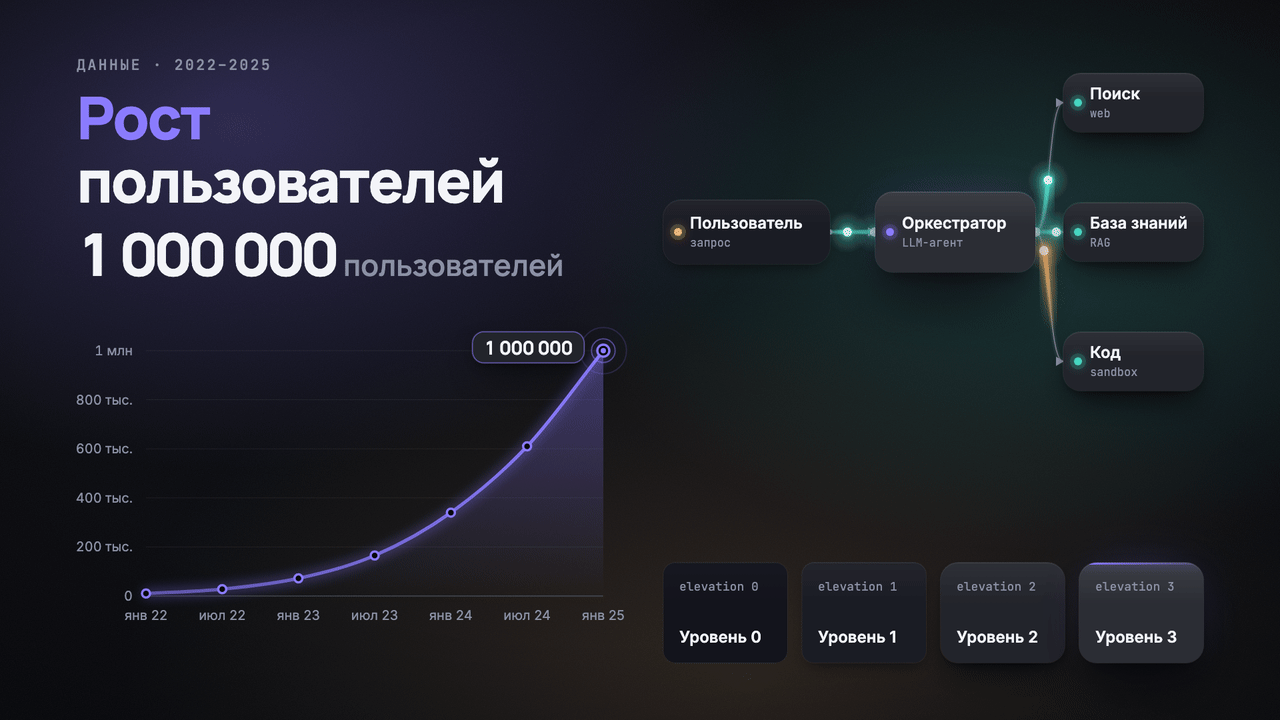
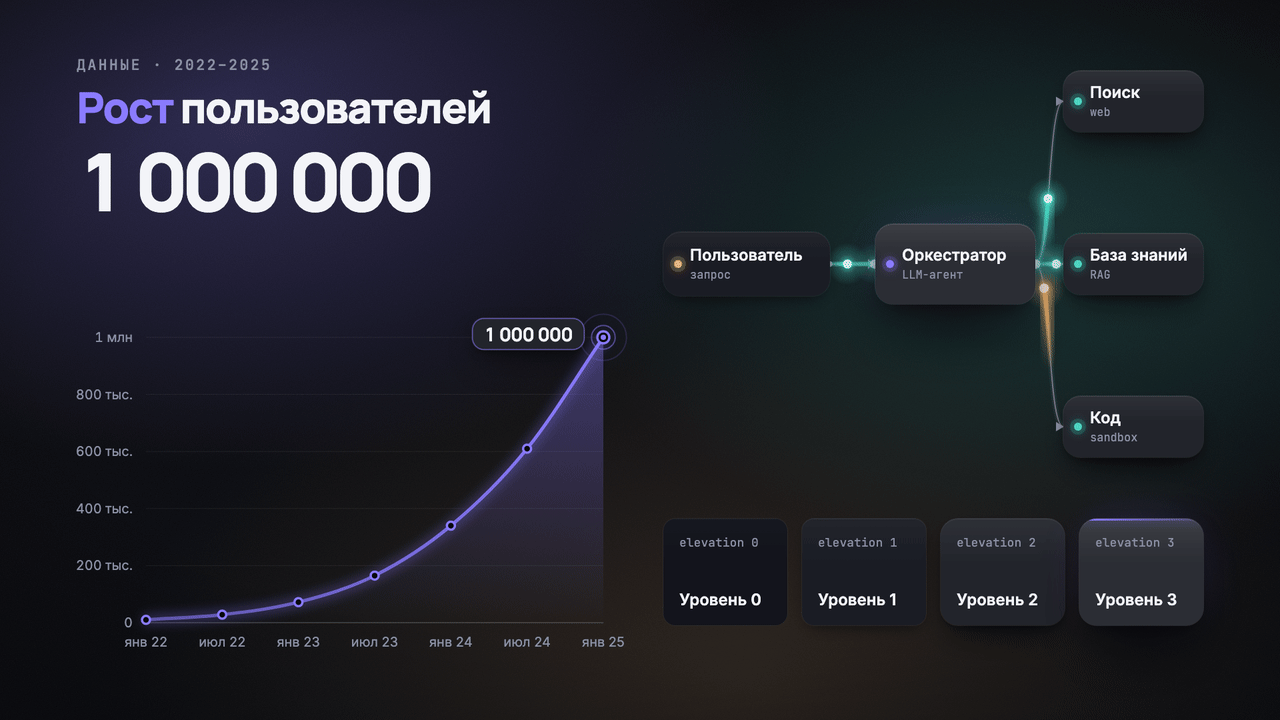
fix(motion-studio): motion-kit — вырожденные биты, иерархия, тени
Вырожденные биты (start = end, end < start) — ступенька через ramp(), без
исключения interpolate; фикстура kit-degenerate и e2e на неё. Галерея и
API.md: число 120 px главнее заголовка 64 px, без повтора слова в
суффиксе; правило иерархии кеглей. API.md: загруженные веса шрифтов,
cardEnterStyle, useFlowGeometry, edgePath. light-clean: уровни 0 и 1
различимы. Комментарий о глобальном extensionAlias. Раскладка галереи:
нулевая линия графика по низу карточек. План: путь шрифтов (R11).

diff --git a/app/motion-studio/render/test/fixtures/kit-gallery/src/Scene.tsx b/app/motion-studio/render/test/fixtures/kit-gallery/src/Scene.tsx
@@ -30,12 +30,17 @@ const POINTS = [
 ];
 
 const NODES: FlowNode[] = [
-  { id: "user", label: "Пользователь", caption: "запрос", x: 0, y: 214, w: 250, h: 96, elevation: 1, accentIndex: 2 },
-  { id: "orch", label: "Оркестратор", caption: "LLM-агент", x: 318, y: 202, w: 240, h: 120, elevation: 3, accentIndex: 0 },
-  { id: "search", label: "Поиск", caption: "web", x: 600, y: 24, w: 210, h: 88, elevation: 2, accentIndex: 1 },
-  { id: "kb", label: "База знаний", caption: "RAG", x: 600, y: 218, w: 210, h: 88, elevation: 2, accentIndex: 1 },
-  { id: "code", label: "Код", caption: "sandbox", x: 600, y: 412, w: 210, h: 88, elevation: 2, accentIndex: 1 },
+  { id: "user", label: "Пользователь", caption: "запрос", x: 0, y: 262, w: 250, h: 96, elevation: 1, accentIndex: 2 },
+  { id: "orch", label: "Оркестратор", caption: "LLM-агент", x: 318, y: 250, w: 240, h: 120, elevation: 3, accentIndex: 0 },
+  { id: "search", label: "Поиск", caption: "web", x: 600, y: 20, w: 210, h: 92, elevation: 2, accentIndex: 1 },
+  { id: "kb", label: "База знаний", caption: "RAG", x: 600, y: 264, w: 210, h: 92, elevation: 2, accentIndex: 1 },
+  { id: "code", label: "Код", caption: "sandbox", x: 600, y: 508, w: 210, h: 92, elevation: 2, accentIndex: 1 },
 ];
+
+// подписи оси X у LineChart лежат под базовой линией (нижнее поле 56 px): ряд карточек
+// поднимаем на столько же, чтобы его низ совпал с нулевой линией графика
+const CHART_PAD_BOTTOM = 56;
+
 const EDGES: FlowEdge[] = [
   { id: "e-user", from: "user", to: "orch" },
   { id: "e-search", from: "orch", to: "search" },
@@ -53,7 +58,7 @@ function Gallery() {
       <SafeArea>
         <div style={{ display: "flex", justifyContent: "space-between", height: "100%" }}>
           {/* левая колонка: заголовок, счётчик, график */}
-          <div style={{ width: 830, display: "flex", flexDirection: "column", gap: 18 }}>
+          <div style={{ width: 830, display: "flex", flexDirection: "column", gap: 16 }}>
             <KineticText
               text="Данные · 2022–2025"
               beat={{ start_frame: 0, end_frame: 30 }}
@@ -64,16 +69,17 @@ function Gallery() {
               caps
               color={s.palette.muted}
             />
-            <KineticText text="Рост пользователей" beat={{ start_frame: 4, end_frame: 50 }} mode="words" enter="rise" size={6} highlight={["Рост"]} />
-            <AnimatedNumber from={10_000} to={1_000_000} beat={{ start_frame: 12, end_frame: 100 }} locale="ru" suffix="пользователей" size={6} />
-            <div style={{ marginTop: 8 }}>
-              <LineChart points={POINTS} beat={{ start_frame: 20, end_frame: 110 }} width={830} height={500} locale="ru" />
+            {/* иерархия: число — главный акцент (7 = 120 px), заголовок — второй уровень (5 = 64 px) */}
+            <KineticText text="Рост пользователей" beat={{ start_frame: 4, end_frame: 50 }} mode="words" enter="rise" size={5} highlight={["Рост"]} />
+            <AnimatedNumber from={10_000} to={1_000_000} beat={{ start_frame: 12, end_frame: 100 }} locale="ru" size={7} />
+            <div style={{ marginTop: "auto" }}>
+              <LineChart points={POINTS} beat={{ start_frame: 20, end_frame: 110 }} width={830} height={560} locale="ru" />
             </div>
           </div>
 
           {/* правая колонка: схема с импульсами и карточки по высоте */}
-          <div style={{ width: 810, display: "flex", flexDirection: "column", justifyContent: "space-between" }}>
-            <FlowGraph nodes={NODES} edges={EDGES} beat={{ start_frame: 18, end_frame: 90 }} width={810} height={524}>
+          <div style={{ width: 810, display: "flex", flexDirection: "column", justifyContent: "space-between", paddingBottom: CHART_PAD_BOTTOM, boxSizing: "border-box" }}>
+            <FlowGraph nodes={NODES} edges={EDGES} beat={{ start_frame: 18, end_frame: 90 }} width={810} height={600}>
               <PulseAlongPath edgeId="e-user" beat={{ start_frame: 60, end_frame: 150 }} count={2} />
               <PulseAlongPath edgeId="e-search" beat={{ start_frame: 70, end_frame: 150 }} />
               <PulseAlongPath edgeId="e-kb" beat={{ start_frame: 74, end_frame: 150 }} count={2} />
@@ -81,7 +87,7 @@ function Gallery() {
             </FlowGraph>
             <div style={{ display: "flex", gap: 22 }}>
               {([0, 1, 2, 3] as Elevation[]).map((e) => (
-                <Card key={e} elevation={e} beat={{ start_frame: 34, end_frame: 90 }} delay={e * 5} enter={CARD_ENTERS[e]} accentIndex={e === 3 ? 0 : undefined} width={186} height={150}>
+                <Card key={e} elevation={e} beat={{ start_frame: 34, end_frame: 90 }} delay={e * 5} enter={CARD_ENTERS[e]} accentIndex={e === 3 ? 0 : undefined} width={186} height={160}>
                   <div style={{ display: "flex", flexDirection: "column", justifyContent: "space-between", height: "100%" }}>
                     <div style={{ fontFamily: '"JetBrains Mono", monospace', fontSize: 18, color: s.palette.muted }}>elevation {e}</div>
                     <div style={{ fontFamily: '"Inter", sans-serif', fontWeight: 600, fontSize: 24, whiteSpace: "nowrap" }}>Уровень {e}</div>

diff --git a/app/motion-studio/render/test/fixtures/kit-degenerate/src/Scene.tsx b/app/motion-studio/render/test/fixtures/kit-degenerate/src/Scene.tsx
@@ -1,0 +1,45 @@
+// Вырожденные биты: нулевой длины (start = end) и обратный (end < start). Каждый
+// компонент kit должен показать их ступенькой и не бросить исключение.
+import { AnimatedNumber, Background, Card, FlowGraph, KineticText, LineChart, PulseAlongPath, SafeArea, StyleProvider } from "@ms/motion-kit";
+import { AbsoluteFill } from "remotion";
+
+const ZERO = { start_frame: 10, end_frame: 10 };
+const BACK = { start_frame: 12, end_frame: 4 };
+
+export const Scene = () => (
+  <StyleProvider style="light-clean">
+    <AbsoluteFill>
+      <Background beat={ZERO} />
+      <SafeArea>
+        <div style={{ display: "flex", gap: 40 }}>
+          <div style={{ display: "flex", flexDirection: "column", gap: 12, width: 560 }}>
+            <KineticText text="Нулевой бит" beat={ZERO} mode="letters" enter="rise" size={4} exit />
+            <KineticText text="Обратный бит" beat={BACK} mode="words" enter="fade" size={3} />
+            <AnimatedNumber from={0} to={1500} beat={ZERO} locale="ru" size={5} />
+            <AnimatedNumber from={0} to={42} beat={BACK} locale="en" suffix="%" size={3} />
+            <LineChart points={[{ label: "a", value: 1 }, { label: "b", value: 3 }]} beat={ZERO} width={520} height={260} />
+          </div>
+          <div style={{ display: "flex", flexDirection: "column", gap: 20 }}>
+            <FlowGraph
+              nodes={[
+                { id: "a", label: "Узел A", x: 0, y: 0, w: 200, h: 80 },
+                { id: "b", label: "Узел B", x: 300, y: 120, w: 200, h: 80 },
+              ]}
+              edges={[{ id: "ab", from: "a", to: "b" }]}
+              beat={ZERO}
+            >
+              <PulseAlongPath edgeId="ab" beat={ZERO} />
+              <PulseAlongPath edgeId="ab" beat={BACK} reverse />
+            </FlowGraph>
+            <Card elevation={2} beat={ZERO} accentIndex={0} width={300}>
+              Карточка
+            </Card>
+            <Card elevation={1} beat={BACK} width={300}>
+              Обратный бит
+            </Card>
+          </div>
+        </div>
+      </SafeArea>
+    </AbsoluteFill>
+  </StyleProvider>
+);

diff --git a/app/motion-studio/render/src/motion-kit/components/AnimatedNumber.tsx b/app/motion-studio/render/src/motion-kit/components/AnimatedNumber.tsx
@@ -6,7 +6,7 @@ import type { CSSProperties } from "react";
 import { interpolate, useCurrentFrame, useVideoConfig } from "remotion";
 import { EASE, frames, springAt } from "../easing.js";
 import { formatNumber } from "../format.js";
-import { CLAMP, clamp01 } from "../internal.js";
+import { CLAMP, clamp01, ramp } from "../internal.js";
 import { useStyle } from "../style.js";
 import { accent, alpha, fontFamily, tracking, typeSize } from "../tokens.js";
 
@@ -43,9 +43,10 @@ export function AnimatedNumber({ from, to, beat, locale, prefix, suffix, compact
   const ease = EASE.count;
 
   // счёт идёт до конца бита; вход занимает его начало и идёт параллельно
-  const countStart = b0 + Math.min(6, (b1 - b0) * 0.1);
-  const p = interpolate(frame, [countStart, b1], [0, 1], { ...CLAMP, easing: ease });
-  const pPrev = interpolate(frame - 1, [countStart, b1], [0, 1], { ...CLAMP, easing: ease });
+  const countStart = b0 + Math.max(0, Math.min(6, (b1 - b0) * 0.1));
+  // ramp: бит нулевой длины — ступенька, а не исключение interpolate
+  const p = ramp(frame, countStart, b1, ease);
+  const pPrev = ramp(frame - 1, countStart, b1, ease);
   const value = from + (to - from) * p;
   const fmt = { locale, compact, decimals };
   const text = formatNumber(value, fmt);

diff --git a/app/motion-studio/render/src/motion-kit/components/Background.tsx b/app/motion-studio/render/src/motion-kit/components/Background.tsx
@@ -1,8 +1,8 @@
 // Фон сцены: базовый цвет палитры + атмосфера по пресету (световые пятна, неоновая
 // сетка, бумага с точечной сеткой), виньетка и плёночное зерно. Всё движение — от кадра.
 import type { Beat } from "@ms/contracts";
-import { AbsoluteFill, Easing, interpolate, random, useCurrentFrame, useVideoConfig } from "remotion";
-import { CLAMP, useSvgId } from "../internal.js";
+import { AbsoluteFill, Easing, random, useCurrentFrame, useVideoConfig } from "remotion";
+import { ramp, useSvgId } from "../internal.js";
 import { useStyle } from "../style.js";
 import { accent, alpha, isDark, mix } from "../tokens.js";
 
@@ -33,7 +33,7 @@ export function Background({ beat, variant, grain = true, seed = "bg" }: Backgro
   const v = variant ?? DEFAULT_VARIANT[s.id] ?? (dark ? "aurora" : "paper");
   const t = frame / fps;
   const reveal = beat
-    ? interpolate(frame, [beat.start_frame, beat.end_frame], [0, 1], { ...CLAMP, easing: Easing.bezier(0.25, 1, 0.5, 1) })
+    ? ramp(frame, beat.start_frame, beat.end_frame, Easing.bezier(0.25, 1, 0.5, 1))
     : 1;
   const noiseId = useSvgId("ms-grain");
 

diff --git a/app/motion-studio/render/src/node/worker.ts b/app/motion-studio/render/src/node/worker.ts
@@ -83,7 +83,11 @@ async function ensureBundle(job: WorkerJob): Promise<string> {
         // node_modules пакетов Remotion), затем node_modules workspaces
         modules: ["node_modules", job.nodeModules],
         // motion-kit пишет импорты с `.js` (NodeNext, как остальной пакет render):
-        // webpack сначала ищет одноимённый .ts/.tsx
+        // webpack сначала ищет одноимённый .ts/.tsx. Правило глобальное — действует на
+        // все импорты бандла (код сцены, node_modules), не только на kit. Это безопасно:
+        // для `x.js` без соседнего `x.ts`/`x.tsx` разрешение то же, что без алиаса.
+        // Сузить до каталога kit можно только через resolve в module.rules по issuer —
+        // лишняя сложность ради того же результата.
         extensionAlias: { ...config.resolve?.extensionAlias, ".js": [".ts", ".tsx", ".js"] },
       },
     }),

diff --git a/app/motion-studio/render/src/motion-kit/tokens.ts b/app/motion-studio/render/src/motion-kit/tokens.ts
@@ -67,10 +67,13 @@ export function radius(s: StyleBible, level: number): number {
   return list[clampInt(level, 0, list.length - 1)]!;
 }
 
-/** Цвет поверхности на высоте: на тёмной теме светлее с высотой, на светлой — белее. */
+/**
+ * Цвет поверхности на высоте: на тёмной теме светлее с высотой; на светлой уровень 0 —
+ * «вдавлен» к цвету фона, выше — чистая поверхность (глубину дают тени).
+ */
 export function surfaceAt(s: StyleBible, elevation: number): string {
   const e = clampInt(elevation, 0, 3);
-  return isDark(s) ? mix(s.palette.surface, s.palette.text, [0, 0.035, 0.07, 0.11][e]!) : mix(s.palette.surface, "#ffffff", [0, 0.4, 0.7, 1][e]!);
+  return isDark(s) ? mix(s.palette.surface, s.palette.text, [0, 0.035, 0.07, 0.11][e]!) : mix(s.palette.surface, s.palette.bg, [0.55, 0, 0, 0][e]!);
 }
 
 /** Кегль шага шкалы (px при высоте кадра 1080). */

diff --git a/app/motion-studio/render/src/motion-kit/presets.ts b/app/motion-studio/render/src/motion-kit/presets.ts
@@ -76,9 +76,9 @@ const lightClean: StyleBible = {
     radius: [8, 14, 20, 28],
     elevation: [
       "0 0 0 1px rgba(14, 17, 22, 0.08)",
-      "0 0 0 1px rgba(14, 17, 22, 0.06), 0 1px 2px rgba(14, 17, 22, 0.06), 0 6px 16px -4px rgba(14, 17, 22, 0.1)",
-      "0 0 0 1px rgba(14, 17, 22, 0.05), 0 2px 4px rgba(14, 17, 22, 0.05), 0 18px 36px -10px rgba(14, 17, 22, 0.18)",
-      "0 0 0 1px rgba(14, 17, 22, 0.04), 0 4px 10px rgba(14, 17, 22, 0.06), 0 36px 72px -18px rgba(14, 17, 22, 0.3)",
+      "0 0 0 1px rgba(14, 17, 22, 0.06), 0 2px 4px rgba(14, 17, 22, 0.08), 0 10px 22px -6px rgba(14, 17, 22, 0.18)",
+      "0 0 0 1px rgba(14, 17, 22, 0.05), 0 3px 6px rgba(14, 17, 22, 0.07), 0 22px 42px -10px rgba(14, 17, 22, 0.24)",
+      "0 0 0 1px rgba(14, 17, 22, 0.04), 0 6px 12px rgba(14, 17, 22, 0.08), 0 40px 80px -18px rgba(14, 17, 22, 0.34)",
     ],
   },
   motion: {

diff --git a/app/motion-studio/render/src/motion-kit/components/KineticText.tsx b/app/motion-studio/render/src/motion-kit/components/KineticText.tsx
@@ -70,7 +70,7 @@ export function KineticText({
   const words = text.split(/\s+/).filter(Boolean);
   const units = mode === "letters" ? words.reduce((n, w) => n + Array.from(w).length, 0) : words.length;
   // разбег по биту: не дольше 60% его длины, чтобы последняя часть успела встать
-  const len = beat.end_frame - beat.start_frame;
+  const len = Math.max(0, beat.end_frame - beat.start_frame);
   const baseStagger = stagger ?? (mode === "letters" ? Math.max(1, s.motion.stagger_frames * 0.5) : s.motion.stagger_frames);
   const step = Math.min(frames(s, baseStagger), units > 1 ? (len * 0.6) / (units - 1) : baseStagger);
   const start = beat.start_frame + delay;

diff --git a/app/motion-studio/render/src/motion-kit/internal.ts b/app/motion-studio/render/src/motion-kit/internal.ts
@@ -10,3 +10,13 @@ export const clamp01 = (v: number) => Math.max(0, Math.min(1, v));
 export function useSvgId(prefix: string): string {
   return `${prefix}-${useId().replace(/[^a-zA-Z0-9_-]/g, "")}`;
 }
+
+/**
+ * Доля 0..1 окна [a, b] по кадру (clamp, необязательный easing). Окно нулевой или
+ * обратной длины — ступенька в кадре a: interpolate на таком входе бросает.
+ */
+export function ramp(frame: number, a: number, b: number, easing?: (t: number) => number): number {
+  if (!(b > a)) return frame >= a ? 1 : 0;
+  const t = clamp01((frame - a) / (b - a));
+  return easing ? easing(t) : t;
+}

diff --git a/app/motion-studio/render/test/kit/beat.test.ts b/app/motion-studio/render/test/kit/beat.test.ts
@@ -43,3 +43,15 @@ describe("beatPhase", () => {
     expect(beatPhase(19, b, { enter: 4, exit: 0 })).toBe("hold");
   });
 });
+
+describe("ramp: вырожденные окна не бросают", () => {
+  it("нулевое и обратное окно — ступенька", async () => {
+    const { ramp } = await import("../../src/motion-kit/internal.js");
+    expect(ramp(9, 10, 10)).toBe(0);
+    expect(ramp(10, 10, 10)).toBe(1);
+    expect(ramp(5, 10, 3)).toBe(0);
+    expect(ramp(11, 10, 3)).toBe(1);
+    expect(ramp(15, 10, 20)).toBeCloseTo(0.5);
+    expect(ramp(15, 10, 20, (t) => t * t)).toBeCloseTo(0.25);
+  });
+});

diff --git a/app/motion-studio/render/src/motion-kit/API.md b/app/motion-studio/render/src/motion-kit/API.md
@@ -10,7 +10,8 @@ import { AnimatedNumber, Background, Card, FlowGraph, KineticText, LineChart,
 ```
 
 Время задаётся битами: `beat = { start_frame, end_frame }` (поля `Beat` из MotionSpec).
-Бит компонента — это окно, в котором идёт его анимация. После `end_frame` элемент
+Бит компонента — это окно, в котором идёт его анимация. Бит нулевой длины
+(`start_frame === end_frame`) не ошибка: компонент показывает его ступенькой. После `end_frame` элемент
 остаётся в итоговом состоянии. Исчезает он, только если это задано явно (`exit`).
 Размеры указаны в px для кадра 1920×1080.
 
@@ -31,9 +32,18 @@ export const Scene = () => (
 | `light-clean` | светлый фон с точечной сеткой, Inter 700, синий акцент, мягкие тени, сдержанное движение |
 | `tech-neon` | почти чёрный фон, неоновая сетка-пол, JetBrains Mono, циан и маджента, свечение вместо теней, резкое движение (energetic) |
 
-Шрифты (Inter, Manrope, JetBrains Mono, латиница и кириллица) загружаются при
-импорте kit. `ensureFonts()` звать не нужно. Своих шрифтов и `staticFile` для шрифтов
-не добавляй.
+Шрифты (латиница и кириллица) загружаются при импорте kit, `ensureFonts()` звать не
+нужно. Загружены только эти начертания:
+
+| Семейство | `fontWeight` |
+|---|---|
+| Inter | 400, 500, 600, 700 |
+| Manrope | 600, 700, 800 |
+| JetBrains Mono | 400, 500, 700 |
+
+Другие веса браузер синтезирует из ближайшего: 300 станет 400, 900 станет 800, а
+жирность Inter 800 будет искусственной и грубой. Бери веса из таблицы. Своих шрифтов и
+`staticFile` для шрифтов не добавляй.
 
 ## Компоненты
 
@@ -64,7 +74,7 @@ align?, maxWidth?, lineHeight?, delay?, stagger?, exit?, caps?, style? }`
 (`random(seed)`), поэтому части не входят строем.
 ```tsx
 <KineticText text="Рост пользователей" beat={{ start_frame: 4, end_frame: 50 }}
-  mode="words" enter="rise" highlight={["Рост"]} />
+  mode="words" enter="rise" size={5} highlight={["Рост"]} />
 <KineticText text="Данные · 2022–2025" beat={{ start_frame: 0, end_frame: 30 }}
   mode="letters" enter="fade" size={1} font="mono" caps />
 ```
@@ -78,8 +88,9 @@ font? = "display" | "mono", reserveWidth?, color?, align?, style? }`
 При быстром счёте цифры слегка смазываются. `reserveWidth` держит ширину под итоговое
 значение; по умолчанию включено только без `prefix`/`suffix`.
 ```tsx
+{/* герой кадра: число крупнее заголовка; суффикс не повторяет слово из заголовка */}
 <AnimatedNumber from={10_000} to={1_000_000} beat={{ start_frame: 12, end_frame: 100 }}
-  locale="ru" suffix="пользователей" size={6} />
+  locale="ru" size={7} />
 ```
 
 ### LineChart
@@ -103,8 +114,10 @@ delay?, accentIndex?, width?, height?, padding?, style? }`
 
 `elevation` задаёт тень, светлоту поверхности и блик кромки: 0 — плоская, 3 — самая
 «высокая». Вход по умолчанию: `flip` (поворот к зрителю) для 2–3 и `rise` для 0–1.
-`accentIndex` рисует светящуюся кромку сверху. Для своих блоков в стиле kit есть
-`cardSurface(style, elevation)` (только оформление, без анимации).
+`accentIndex` рисует светящуюся кромку сверху. Для своих блоков в стиле kit:
+- `cardSurface(style, elevation)` — оформление поверхности (фон, тень, радиус) без анимации;
+- `cardEnterStyle(style, frame, fps, start, enter)` — стиль входа (`opacity`, `transform`,
+  `filter`) с кадра `start`, как у Card. Не хук: можно звать в `.map()`.
 ```tsx
 <Card elevation={3} beat={{ start_frame: 30, end_frame: 80 }} accentIndex={0} width={420}>…</Card>
 ```
@@ -119,6 +132,14 @@ edges: { id, from, to }[], beat, width?, height?, enter? = "flip", children? }`
 (≥ 16 px), иначе вертикальные. Подписи всех узлов получают общий кегль, при котором
 каждая влезает в свой узел без многоточия. Ширину узла закладывай примерно
 0.57 × кегль × число символов + 60 px.
+
+Для своих слоёв поверх графа:
+- `useFlowGeometry()` возвращает `{ edges: Map<edgeId, CubicSegment>, ready: Map<edgeId, frame> }`
+  ближайшего FlowGraph (`null` вне графа). `ready` — кадр, когда ребро дорисовано. Так
+  делают подписи у середины ребра или свои маркеры.
+- `edgePath(a, b)` возвращает `CubicSegment` ребра между двумя `FlowNode` по тем же
+  правилам портов, что в графе. Пригодится, чтобы провести путь для `PulseAlongPath
+  segments` или своей SVG-линии вне FlowGraph.
 
 ### PulseAlongPath
 `{ edgeId? | segments?, beat, color?, tail? = 120, size? = 7, count? = 1, travel?, repeat? = true,
@@ -164,6 +185,10 @@ reverse? }`
   карточки не должны обрезать текст.
 - Один главный акцент в кадре: одно выделенное слово (`highlight`), одна выноска.
 
+- Строй иерархию размером: главный акцент (число, вывод) — самый крупный в кадре
+  (`AnimatedNumber size={7}` и больше), заголовок на шаг-два меньше (`size={5}`),
+  подписи и кикеры — 0–2. Подпись к числу не повторяет слово из заголовка.
+
 Не делай:
 - CSS `transition`/`animation`, `setTimeout`, `Math.random`, `Date.now` — статическая
   проверка их отклонит. Случайность — `random("seed")` из remotion.
@@ -173,5 +198,6 @@ reverse? }`
   зови `springAt`/`beatProgress`.
 - Свои тени, цвета и шрифты поверх пресета. Нужен другой вид — смени пресет или
   передай свой StyleBible в `StyleProvider`.
+- Заголовок крупнее главного числа или два элемента одного кегля, спорящие за внимание.
 - `scaleX` на блоке с текстом (текст растягивается), анимацию `width` у карточек,
   пропорциональные цифры в счётчиках.
